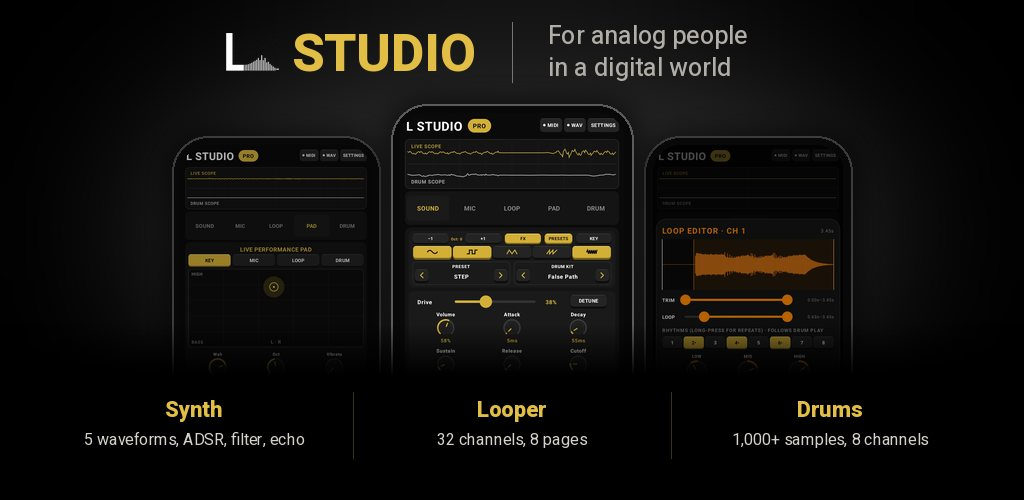
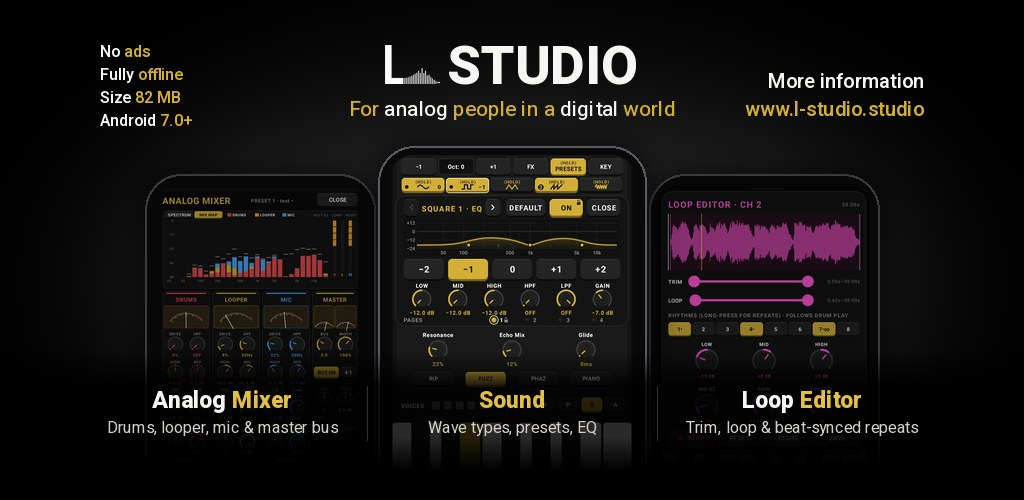
Home: 1.12 feature graphic (HE, EN for EN/RU/AR) replaces the 1.10 one; new alts

diff --git a/client/src/pages/Home.tsx b/client/src/pages/Home.tsx
@@ -22,8 +22,8 @@ const factoryHero = {
 const factoryBoxJpg = `${import.meta.env.BASE_URL}assets/factory-pack-box.jpg?v=108-packs`;
 const factoryBoxWebp = `${import.meta.env.BASE_URL}assets/factory-pack-box.webp?v=108-packs`;
 const factoryBoxWebp800 = `${import.meta.env.BASE_URL}assets/factory-pack-box-800.webp?v=108-packs`;
-// 1.10 feature graphic (1024x500). HE uses the Hebrew one, EN/RU/AR use the English one.
-const FEATURE_GRAPHIC_VER = "fg-110";
+// 1.12 feature graphic (1024x500, designer, Oct 22). HE uses the Hebrew one, EN/RU/AR use the English one.
+const FEATURE_GRAPHIC_VER = "fg-112";
 function featureGraphicUrl(language: Language, width: 640 | 800 | 1024, ext: "jpg" | "webp") {
   return `${import.meta.env.BASE_URL}assets/feature-graphic-${language === "he" ? "he" : "en"}-${width}.${ext}?v=${FEATURE_GRAPHIC_VER}`;
 }
@@ -39,10 +39,10 @@ const demoCopy = {
   ar: { label: "فيديو تجريبي", title: "فيديو تجريبي لـ L Studio" },
 } satisfies Record<Language, { label: string; title: string }>;
 const featureGraphicAlt = {
-  he: "L Studio, גרפיקה עם שלושה מסכי טלפון: סינתיסייזר עם חמישה גלי קול, מעטפת, פילטר והד. לופר עם 32 ערוצים ו-8 עמודים. תופים עם מעל אלף דגימות ו-8 ערוצים. לאנשים אנלוגיים בעולם דיגיטלי.",
-  en: "L Studio, a graphic with three phone screens: Synth with 5 waveforms, ADSR, filter and echo. Looper with 32 channels and 8 pages. Drums with 1,000+ samples and 8 channels. For analog people in a digital world.",
-  ru: "L Studio, графика с тремя экранами телефона: синтезатор с 5 волнами, ADSR, фильтром и эхо. Лупер с 32 каналами и 8 страницами. Ударные с более чем 1000 сэмплов и 8 каналами. Для аналоговых людей в цифровом мире.",
-  ar: "L Studio، رسم بثلاث شاشات هاتف: سينث بـ5 موجات وADSR وفلتر وصدى. لوبر بـ32 قناة و8 صفحات. طبول بأكثر من 1000 عينة و8 قنوات. للأشخاص التناظريين في عالم رقمي.",
+  he: "L Studio, לאנשים אנלוגיים בעולם דיגיטלי. שלושה מסכי טלפון: מיקסר אנלוגי (תופים, לופר, מיקרופון וערוץ מאסטר), סאונד (סוגי גל, צלילים מוכנים, אקולייזר) ועורך לופ (חיתוך, לולאה וחזרות בקצב). ללא פרסומות, אופליין מלא, אנדרואיד 7.0 ומעלה. מידע נוסף: www.l-studio.studio",
+  en: "L Studio, for analog people in a digital world. Three phone screens: Analog Mixer (drums, looper, mic and master bus), Sound (wave types, presets, EQ) and Loop Editor (trim, loop and beat-synced repeats). No ads, fully offline, Android 7.0+. More information: www.l-studio.studio",
+  ru: "L Studio, для аналоговых людей в цифровом мире. Три экрана телефона: аналоговый микшер (ударные, лупер, микрофон и мастер-шина), Sound (типы волн, пресеты, эквалайзер) и редактор лупов (обрезка, луп и повторы в ритм). Без рекламы, полностью офлайн, Android 7.0+. Подробнее: www.l-studio.studio",
+  ar: "L Studio، للأشخاص التناظريين في عالم رقمي. ثلاث شاشات هاتف: المكسر التناظري (الطبول واللوبر والميكروفون وقناة الماستر)، وSound (أنواع الموجات والإعدادات الجاهزة وEQ)، ومحرر اللوب (القص والتكرار والإعادة المتزامنة مع الإيقاع). بلا إعلانات، يعمل دون اتصال بالكامل، أندرويد 7.0 وما فوق. مزيد من المعلومات: www.l-studio.studio",
 } satisfies Record<Language, string>;
 const developerImage = {
   webp: `${import.meta.env.BASE_URL}assets/Developer-720.webp`,

diff --git a/CONTENT_EDITING.md b/CONTENT_EDITING.md
@@ -88,9 +88,9 @@ What 1.09 does, checked in the app code: a tap on a wave plays only that wave, a
 
 The guide Sound screen is `assets/guide/sound-screen-109.jpg`, and the wave row is `assets/guide/sound-waves-109.jpg`. The homepage windows menu uses the approved 1.09 Play assets for Sound (`assets/play/01-layer-waveforms`) and Loop (`assets/play/03-looper-pages`), 720×1280 webp + jpg, cache version `109-play`. Pad, Drum and Mic keep the 1.08 Play assets.
 
-### Feature graphic (2026-10-10)
+### Feature graphic (1.12, 2026-10-22)
 
-The homepage shows the 1024×500 feature graphic directly under the updates ticker, used as is: `assets/feature-graphic-1024.webp/.jpg` and `assets/feature-graphic-800.webp`, with alt text `featureGraphicAlt` in `client/src/pages/Home.tsx`. The picture itself still says "Microtonal music workstation" and "L-studio". Replace the files with a new export when the designer fixes that wording.
+The homepage shows the 1024x500 feature graphic directly under the updates ticker (`<figure className="feature-graphic">` in `Home.tsx`), used as is. Since Oct 22 it is the designer's 1.12 graphic (David approved "כן תעלה את תמונת הפתיחה החדשה"): source `/workspace/store-112/out/final/feature-he.png` (HE) and `feature-en.png` (EN, RU, AR). Files: `assets/feature-graphic-{he,en}-{640,1024}.{webp,jpg}` and `-800.webp`, cache key `FEATURE_GRAPHIC_VER` ("fg-112"), alt text `featureGraphicAlt` (4 languages). The picture shows the logo, slogan, Analog Mixer, Sound and Loop Editor screens, "No ads / Fully offline / Size 82 MB / Android 7.0+" and www.l-studio.studio. Note: the graphic says 82 MB while the site text says 77.4 MB; the site text was not changed. To replace: export new PNGs, re-run the resize (Pillow, same names), bump `FEATURE_GRAPHIC_VER`.
 
 ### Demo video toggle (2026-10-11)
 
